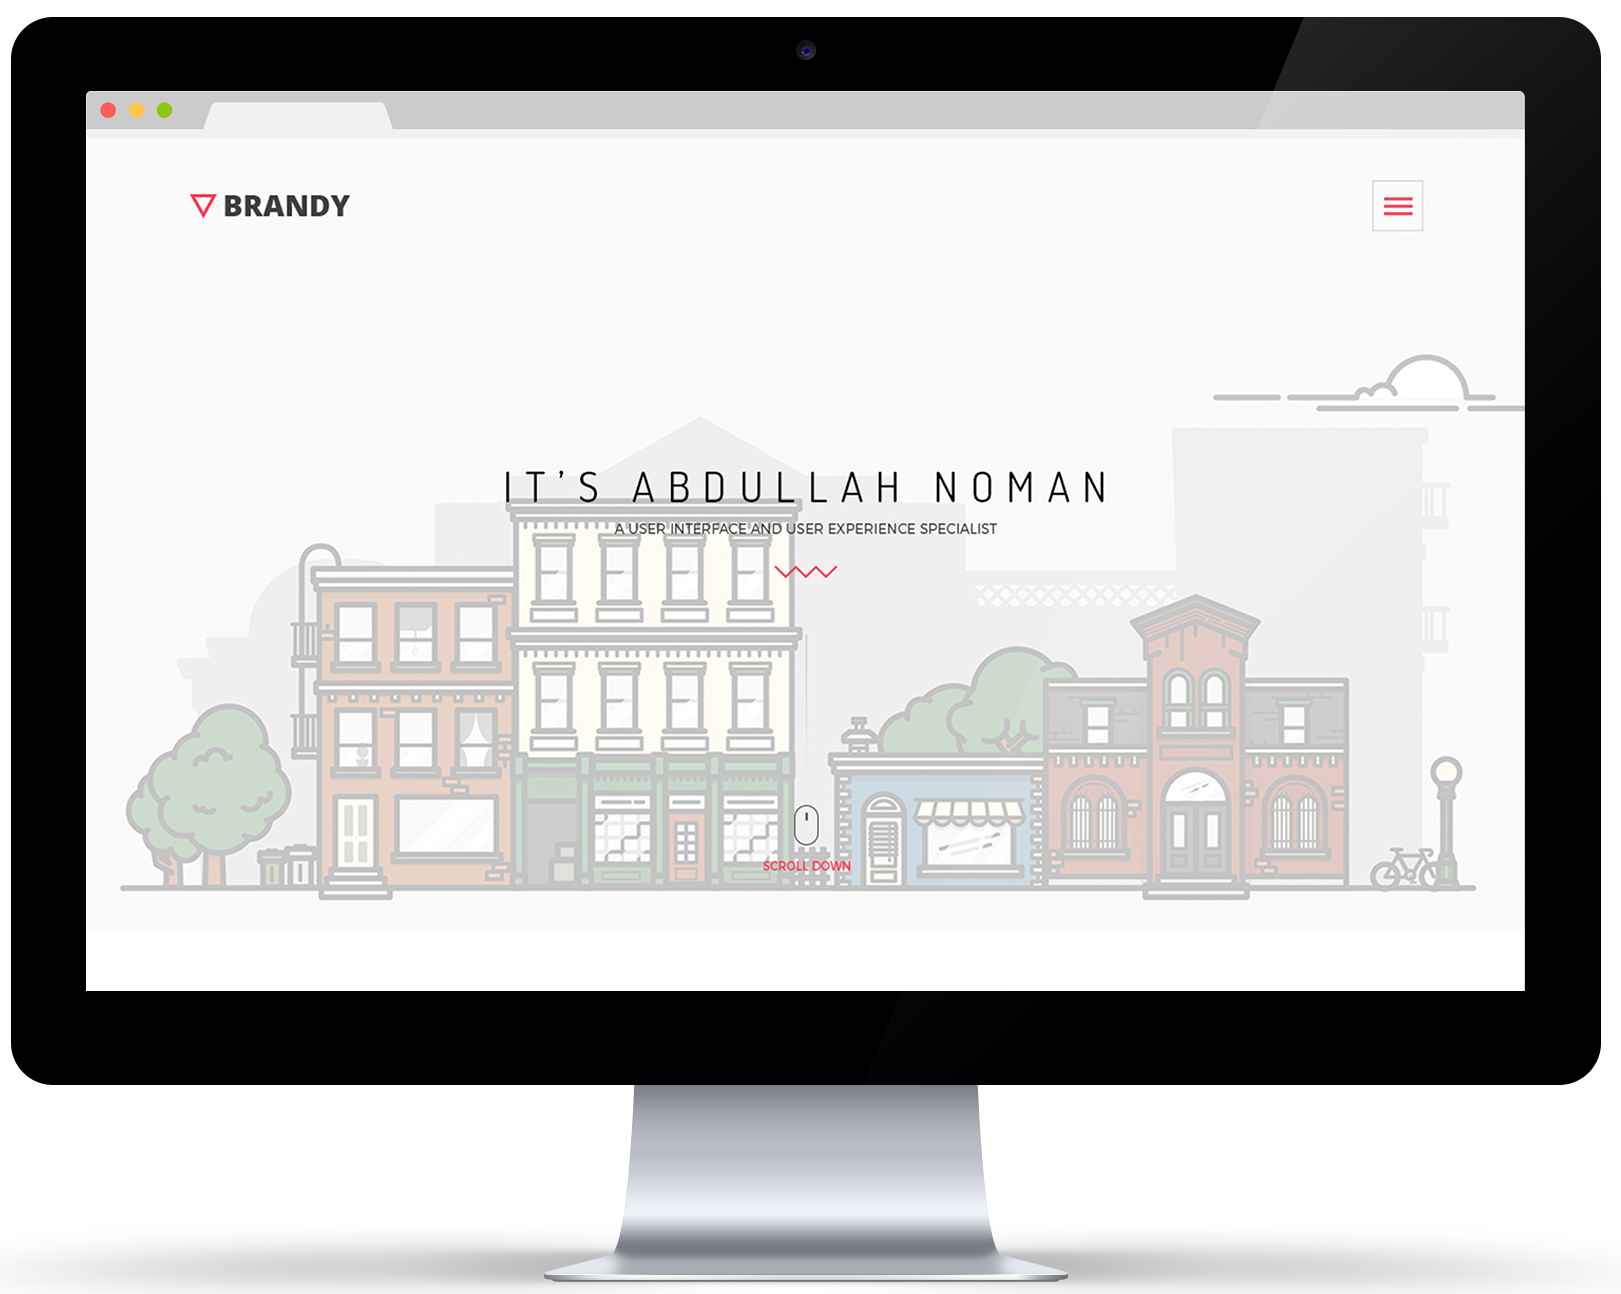
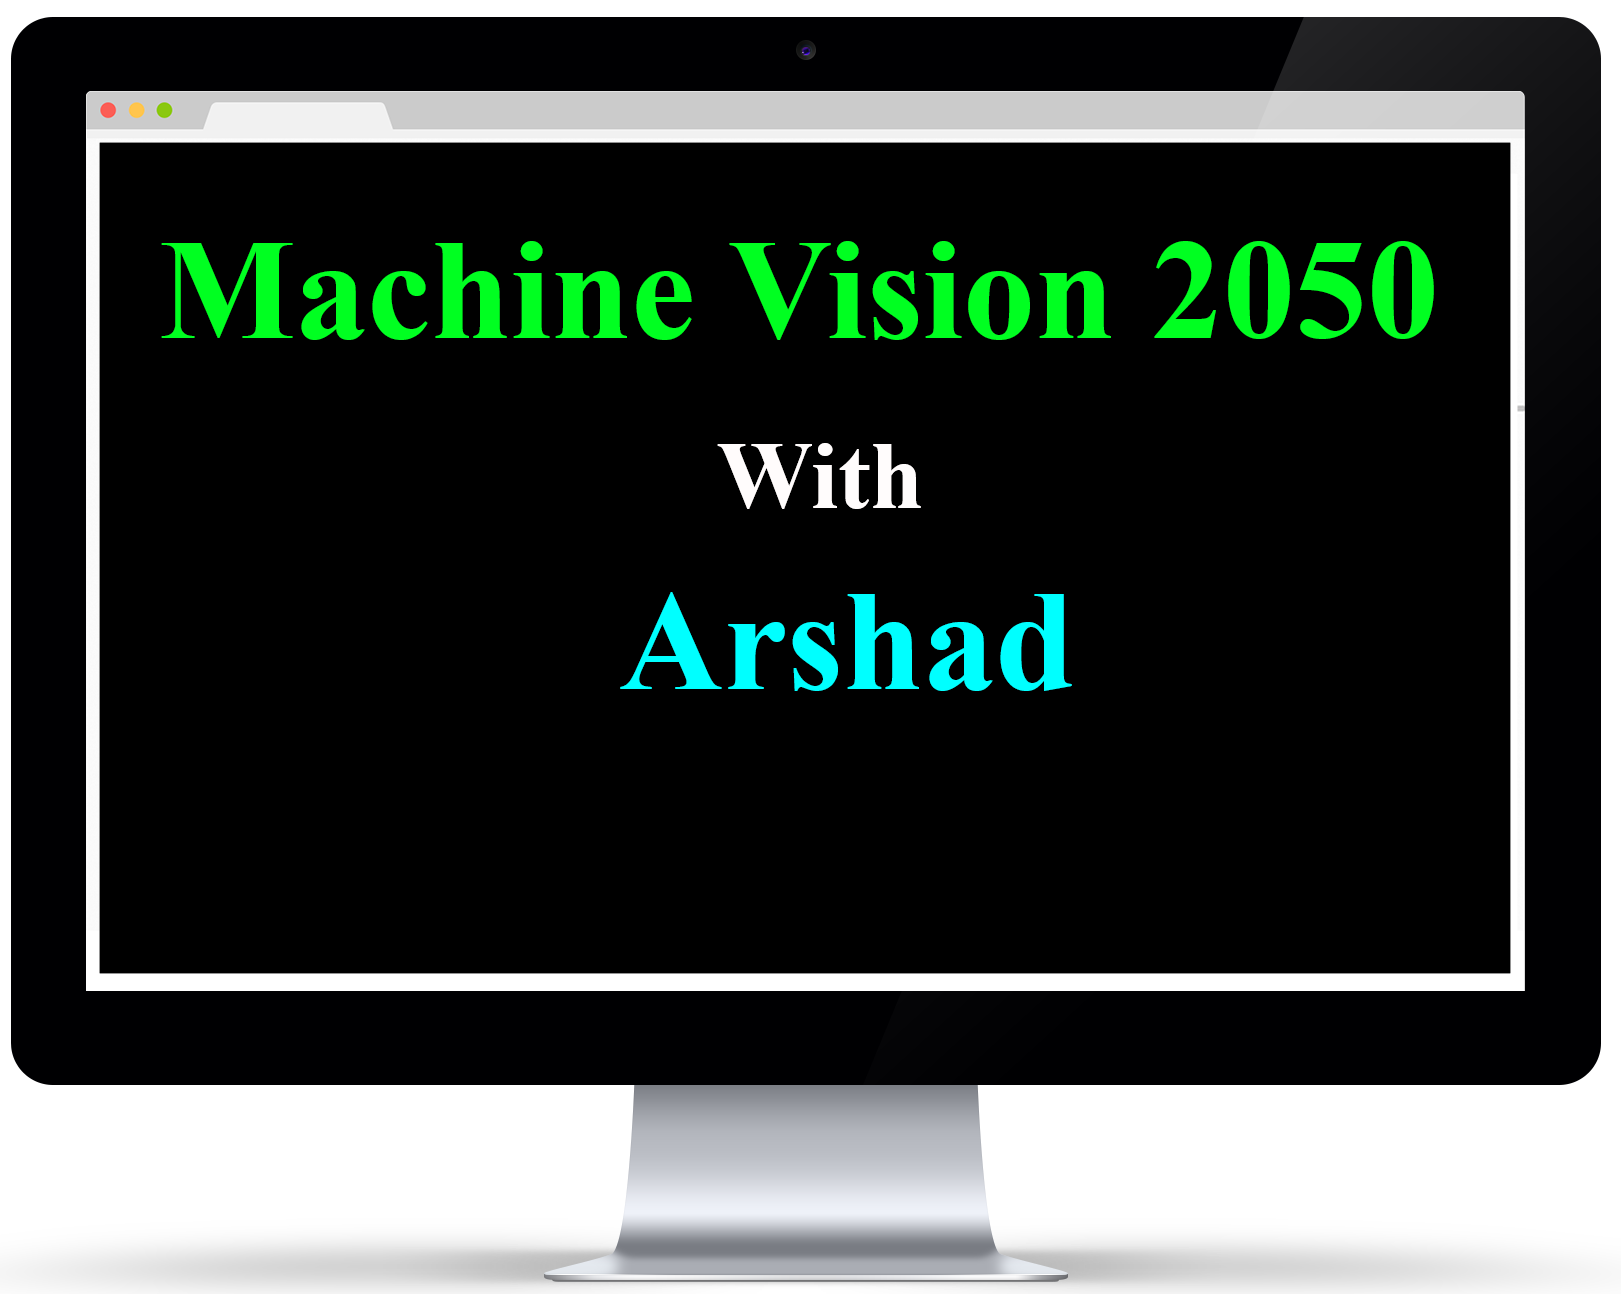
e

diff --git a/index.html b/index.html
@@ -86,9 +86,11 @@
 	                <div class="row">
 	                    <div class="col-md-12 text-center">
 	                        <div class="home_text wow fadeInUp animated">
-	                            <h2>it’s Arshad LF</h2>
-	                            <p>a user interface and user experience specialist</p>
-	                            <img src="images/shape.png" alt="">                        
+	                          <h2>Machine Vision 2050</h2>
+	                          <h2>with</h2>
+	                          <h2>Arshad</h2>
+	                          <p>Software developer and computer vision expert</p>
+	                          <img src="images/shape.png" alt="">                        
 	                        </div>
 	                    </div>
 	                </div>
@@ -115,29 +117,29 @@
                 <div class="col-md-3 text-center">
                     <div class="single_service wow fadeInUp" data-wow-delay="1s">
                         <i class="icon-pencil"></i>
-                        <h2>Design</h2>
-                        <p>Excepteur sint occaecat cupidatat non proident, sunt in culpa.</p>
-                    </div>
+                        <h2>desktop platform</h2>
+                        <p>Windows and Linux</p>
+                        <p>c++, python, c#, java</p></div>
                 </div>
                 <div class="col-md-3 text-center">
                     <div class="single_service wow fadeInUp" data-wow-delay="2s">
                         <i class="icon-gears"></i>
-                        <h2>Development</h2>
-                        <p>Excepteur sint occaecat cupidatat non proident, sunt in culpa.</p>
+                        <h2>web </h2>
+                        <p>Asp.net, mvc, api</p>
                     </div>
                 </div>
                 <div class="col-md-3 text-center">
                     <div class="single_service wow fadeInUp" data-wow-delay="3s">
-                        <i class="icon-camera"></i>
-                        <h2>Photography</h2>
-                        <p>Excepteur sint occaecat cupidatat non proident, sunt in culpa.</p>
+                        <i class="icon-alarmclock"></i>
+                        <h2>Raspberry</h2>
+                        <p>make application on cheaper device that can easily moving and locate.</p>
                     </div>
                 </div>
                 <div class="col-md-3 text-center">
                     <div class="single_service wow fadeInUp" data-wow-delay="4s">
                         <i class="icon-magnifying-glass"></i>
-                        <h2>Seo</h2>
-                        <p>Excepteur sint occaecat cupidatat non proident, sunt in culpa.</p>
+                        <h2>android</h2>
+                        <p>make application for phone.</p>
                     </div>
                 </div>
             </div>            
@@ -155,94 +157,118 @@
             </div>
         </div>
         <div class="container">
+			
             <div class="col-md-4  wow fadeInLeft animated">
-              <div class="single_progress_bar">
-                <h2>Machine Vision - 90%</h2>
+				<h4>computer vision</h4>
+              <div class="single_progress_bar">OpenCV- 90%
                 <div class="progress">
                   <div class="progress-bar" role="progressbar" aria-valuenow="60" aria-valuemin="0" aria-valuemax="100" style="width: 90%;"> <span class="sr-only">60% Complete</span></div>
                 </div>
               </div>
               <div class="single_progress_bar">
-                <h2>Desktop - 60%</h2>
+                <h2>OpenCVSharp - 90%</h2>
                 <div class="progress">
                   <div class="progress-bar" role="progressbar" aria-valuenow="60" aria-valuemin="0" aria-valuemax="100" style="width: 60%;"> <span class="sr-only">60% Complete</span></div>
                 </div>
               </div>
               <div class="single_progress_bar">
-                <h2>MARKETING - 75%</h2>
+                <h2>OpenGL - 30%</h2>
                 <div class="progress">
                   <div class="progress-bar" role="progressbar" aria-valuenow="60" aria-valuemin="0" aria-valuemax="100" style="width: 75%;"> <span class="sr-only">60% Complete</span></div>
                 </div>
               </div>
               <div class="single_progress_bar">
-                <h2>SEO - 95%</h2>
+                <h2>DirectX - 30%</h2>
                 <div class="progress">
                   <div class="progress-bar" role="progressbar" aria-valuenow="60" aria-valuemin="0" aria-valuemax="100" style="width: 95%;"> <span class="sr-only">60% Complete</span></div>
                 </div>
               </div>
             </div>
-            <div class="col-md-4  wow fadeInLeft animated">
+          <div class="col-md-4  wow fadeInLeft animated">
+				<h4>desktop application</h4>
               <div class="single_progress_bar">
-                <h2>Machine Vision - 90%</h2>
+                <h2>C++ - 90%</h2>
                 <div class="progress">
                   <div class="progress-bar" role="progressbar" aria-valuenow="60" aria-valuemin="0" aria-valuemax="100" style="width: 90%;"> <span class="sr-only">60% Complete</span></div>
                 </div>
               </div>
               <div class="single_progress_bar">
-                <h2>Desktop - 60%</h2>
+                <h2>QT - 80%</h2>
                 <div class="progress">
                   <div class="progress-bar" role="progressbar" aria-valuenow="60" aria-valuemin="0" aria-valuemax="100" style="width: 60%;"> <span class="sr-only">60% Complete</span></div>
                 </div>
               </div>
               <div class="single_progress_bar">
-                <h2>MARKETING - 75%</h2>
+                <h2>Python - 75%</h2>
                 <div class="progress">
                   <div class="progress-bar" role="progressbar" aria-valuenow="60" aria-valuemin="0" aria-valuemax="100" style="width: 75%;"> <span class="sr-only">60% Complete</span></div>
                 </div>
               </div>
+            <div class="single_progress_bar">
+                <h2>C# - 95%</h2>
+                <div class="progress">
+                  <div class="progress-bar" role="progressbar" aria-valuenow="60" aria-valuemin="0" aria-valuemax="100" style="width: 95%;"> <span class="sr-only">60% Complete</span></div>
+                </div>
+              </div>
               <div class="single_progress_bar">
-                <h2>SEO - 95%</h2>
+                <h2>Java - 60%</h2>
                 <div class="progress">
                   <div class="progress-bar" role="progressbar" aria-valuenow="60" aria-valuemin="0" aria-valuemax="100" style="width: 95%;"> <span class="sr-only">60% Complete</span></div>
                 </div>
               </div>
             </div>
-            <div class="row">
-                <div class="col-md-4  wow fadeInLeft animated">
+			
+          <div class="row">
+              <div class="col-md-4  wow fadeInLeft animated">
+					<h4>Phone and Web</h4>
                     <div class="single_progress_bar">
-                      <h2>Machine Vision - 90%</h2>
+                      <h2>Asp.net  - 90%</h2>
                       <div class="progress">
-                          <div class="progress-bar" role="progressbar" aria-valuenow="60" aria-valuemin="0" aria-valuemax="100" style="width: 90%;height: 20">
+                          <div class="progress-bar" role="progressbar" aria-valuenow="60" aria-valuemin="0" aria-valuemax="100" style="width: 90%;">
                             <span class="sr-only">60% Complete</span>
                           </div>
-                        </div>
+                      </div>
                     </div>
                     <div class="single_progress_bar">
-                      <h2>Desktop - 60%</h2>
+                      <h2>Android - 60%</h2>
                       <div class="progress">
                           <div class="progress-bar" role="progressbar" aria-valuenow="60" aria-valuemin="0" aria-valuemax="100" style="width: 60%;">
                             <span class="sr-only">60% Complete</span>
                           </div>
-                        </div>
+                      </div>
                     </div>
-                    <div class="single_progress_bar">
-                        <h2>MARKETING - 75%</h2>
+                <div class="single_progress_bar">
+                        <h2>Windows Phone - 75%</h2>
                         <div class="progress">
                           <div class="progress-bar" role="progressbar" aria-valuenow="60" aria-valuemin="0" aria-valuemax="100" style="width: 75%;">
                             <span class="sr-only">60% Complete</span>
                           </div>
                         </div>
-                    </div>
-                    <div class="single_progress_bar">
-                        <h2>SEO - 95%</h2>
-                        <div class="progress">
-                          <div class="progress-bar" role="progressbar" aria-valuenow="60" aria-valuemin="0" aria-valuemax="100" style="width: 95%;">
-                            <span class="sr-only">60% Complete</span>
-                          </div>
-                        </div>
-                    </div>
-                </div>
+                  </div>
 </div>
+              <div class="col-md-4  wow fadeInLeft animated">
+                <h4>Database and Reporting</h4>
+                <div class="single_progress_bar">
+                  <h2>SQL Server  - 90%</h2>
+                  <div class="progress">
+                    <div class="progress-bar" role="progressbar" aria-valuenow="60" aria-valuemin="0" aria-valuemax="100" style="width: 90%;"> <span class="sr-only">60% Complete</span> </div>
+                  </div>
+                </div>
+                <div class="single_progress_bar">
+                  <h2>Oracle - 60%</h2>
+                  <div class="progress">
+                    <div class="progress-bar" role="progressbar" aria-valuenow="60" aria-valuemin="0" aria-valuemax="100" style="width: 60%;"> <span class="sr-only">60% Complete</span> </div>
+                  </div>
+                </div>
+                <div class="single_progress_bar">
+                  <h2>Stimulsoft - 75%</h2>
+                  <div class="progress">
+                    <div class="progress-bar" role="progressbar" aria-valuenow="60" aria-valuemin="0" aria-valuemax="100" style="width: 75%;"> <span class="sr-only">60% Complete</span> </div>
+                  </div>
+                </div>
+              </div>
+				
+          </div>
 </div>
     </section>
     
@@ -276,25 +302,18 @@
 	                            <div class="col-md-4">
 	                                <div class="single_count">
 	                                    <i class="icon-toolbox"></i>
-	                                    <h3>300</h3>
+	                                    <h3>15</h3>
 	                                    <p>Project Done</p>
 	                                </div>
 	                            </div>
 	                            <div class="col-md-4">
 	                                <div class="single_count">
 	                                    <i class="icon-clock"></i>
-	                                    <h3>1700+</h3>
-	                                    <p>Hours Worked</p>
+	                                    <h3>13+</h3>
+	                                    <p>years Worked</p>
 	                                </div>                            
 	                            </div>
-	                            <div class="col-md-4">
-	                                <div class="single_count">
-	                                    <i class="icon-trophy"></i>
-	                                    <h3>37</h3>
-	                                    <p>Awards Won</p>
-	                                </div>                            
-	                            </div>
-	                        </div>
+</div>
 	                    </div>
 	                    <div class="col-md-5 col-md-offset-1 wow fadeInRight animated">
 	                        <div class="imac">
@@ -313,7 +332,7 @@
                     <div class="work_title  wow fadeInUp animated">
                         <h1>Latest Works</h1>
                         <img src="images/shape.png" alt="">
-                        <p>Lorem ipsum dolor sit amet, consectetur adipisicing elit, sed do eiusmod tempor incididunt ut labore et dolore magna <br> aliqua. Ut enim ad minim veniam, quis nostrud exercitation ullamco laboris nisi ut aliquip ex.</p>
+                        <p>Some of my projects</p>
                     </div>
                 </div>
             </div>
@@ -354,30 +373,27 @@
             <div class="row pad_top">
                 <div class="col-md-4 no_padding">
                     <div class="single_image">
-                        <img src="images/w4.jpg" alt="">
-                        <div class="image_overlay">
-                            <a href="">View Full Project</a>
-                            <h2>drawing</h2>
+                      <div class="image_overlay">
+                          <a href="">View Full Project</a>
+                        <h2>drawing</h2>
                             <h4>with pencil colors</h4>
                         </div>                        
                     </div>
                 </div>
                 <div class="col-md-4 no_padding">
                     <div class="single_image">
-                        <img src="images/w5.jpg" alt="">
-                        <div class="image_overlay">
-                            <a href="">View Full Project</a>
-                            <h2>drawing</h2>
+                      <div class="image_overlay">
+                          <a href="">View Full Project</a>
+                        <h2>drawing</h2>
                             <h4>with pencil colors</h4>
                         </div>                        
                     </div>
                 </div>
                 <div class="col-md-4 no_padding">
                     <div class="single_image last_padding">
-                        <img src="images/w6.jpg" alt="">
-                        <div class="image_overlay">
-                            <a href="">View Full Project</a>
-                            <h2>drawing</h2>
+                      <div class="image_overlay">
+                          <a href="">View Full Project</a>
+                        <h2>drawing</h2>
                             <h4>with pencil colors</h4>
                         </div>                        
                     </div>
@@ -387,14 +403,8 @@
     </section>
     <section class="call_to_action">
         <div class="container">
-            <div class="row">
-                <div class="col-md-8 wow fadeInLeft animated">
-                    <div class="left">
-                        <h2>LOOKING FOR EXCLUSIVE DIGITAL SERVICES?</h2>
-                        <p>Proin fringilla augue at maximus vestibulum. Nam pulvinar vitae neque et porttitor. 
-                        Integer non dapibus diam, ac eleifend lectus.</p>
-                    </div>
-                </div>
+          <div class="row">
+                <div class="col-md-8 wow fadeInLeft animated"> </div>
                 <div class="col-md-3 col-md-offset-1 wow fadeInRight animated">
                     <div class="baton">
 	                    <a href="#CONTACT">
@@ -412,7 +422,7 @@
                     <div class="contact_title  wow fadeInUp animated">
                         <h1>get in touch</h1>
                         <img src="images/shape.png" alt="">
-                        <p>Lorem ipsum dolor sit amet, consectetur adipisicing elit, sed do eiusmod tempor incididunt ut labore et dolore magna<br/> aliqua. Ut enim ad minim veniam, quis nostrud exercitation ullamco laboris nisi ut aliquip ex.</p>
+                        <p>If you need any  project in my profession, you can send me message or conntact with me directly in whatsapp.</p>
                     </div>
                 </div>
             </div>
@@ -422,15 +432,15 @@
                 <div class="col-md-3  wow fadeInLeft animated">
                     <div class="single_contact_info">
                         <h2>Call Me</h2>
-                        <p>+88 00 123 456 01</p>
+                        <p>+98</p>
                     </div>
                     <div class="single_contact_info">
                         <h2>Email Me</h2>
-                        <p>Hello@example.com</p>
+                        <p>@yahoo.com</p>
                     </div>
                     <div class="single_contact_info">
                         <h2>Address</h2>
-                        <p>216 Street Address, Barisal, BD</p>
+                        <p>earth</p>
                     </div>
                 </div>
                 <div class="col-md-9  wow fadeInRight animated">
